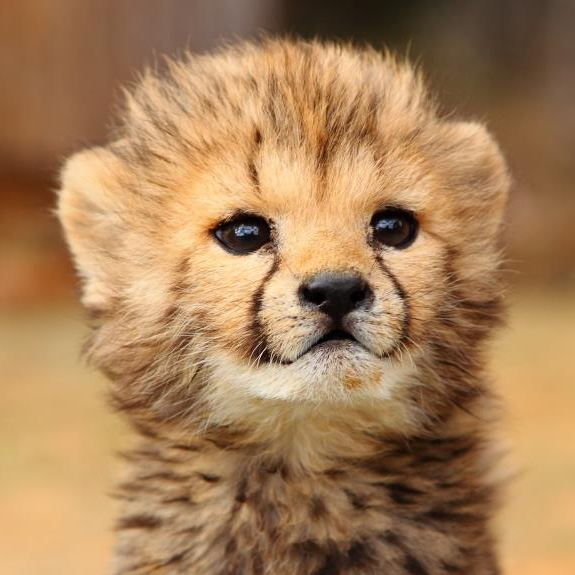
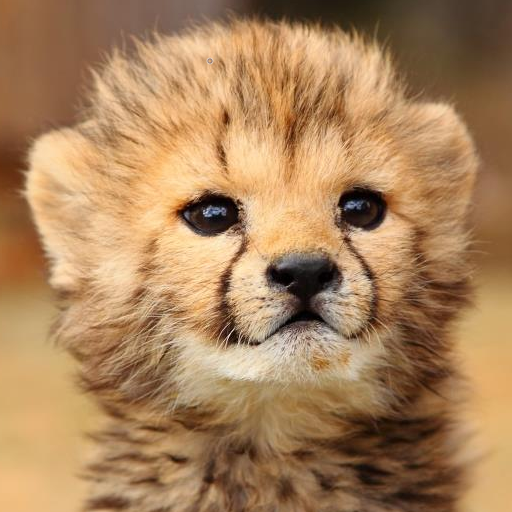
push results

diff --git a/HaarTransform2D.m b/HaarTransform2D.m
@@ -1,20 +1,40 @@
-image = imread('cat.png');
+image = imread('cheetah.png');
 grayimage = rgb2gray(image);
 imshow(grayimage)
+title('threshold = 0')
 [a,h,v,d] = haart2(grayimage);
 
 %% Test Different Threshold
-[threshold, data_sort] = FindThreshold2D(a,h,v,d,0.1);
+[threshold, data_sort] = FindThreshold2D(a,h,v,d,0.8);
 [rec5,a_rec5,h_rec5,v_rec5,d_rec5] = reconstruction2D(a,h,v,d,threshold);
-ratio = Compare(a,h,v,d, a_rec5,h_rec5,v_rec5,d_rec5)
+ratio5 = Compare(a,h,v,d, a_rec5,h_rec5,v_rec5,d_rec5);
 figure
 imshow(uint8(rec5))
-title('threshold = 5')
+title('threshold = 80')
+[threshold, data_sort] = FindThreshold2D(a,h,v,d,0.5);
+[rec9,a_rec9,h_rec9,v_rec9,d_rec9] = reconstruction2D(a,h,v,d,threshold);
+ratio9 = Compare(a,h,v,d, a_rec9,h_rec9,v_rec9,d_rec9);
+figure
+imshow(uint8(rec9))
+title('threshold = 50')
 % threshold = FindThreshold2D(a,h,v,d,0.9)
 % rec70 = reconstruction2D(a,h,v,d,threshold);
 % figure
 % imshow(rec70)
 % title('threshold = 70')
+
+%% Compute PSNR
+ratio = (0.01:0.005:0.9999)';
+[psnr,mse] = ComputePSNRs2D(double(grayimage),a,h,v,d,ratio);
+figure
+plot(ratio,psnr,'x')
+xlabel('compression ratio')
+ylabel('PSNR')
+figure
+plot(ratio,mse,'x')
+xlabel('compression ratio')
+ylabel('MSE')
+
 
 function [rec,a,h,v,d] = reconstruction2D(a,h,v,d,threshold)
     count = 0;
@@ -71,14 +91,16 @@ function [threshold,data_sort] = FindThreshold2D(a,h,v,d,ratio)
     start_index = sum(data_sort==0);
     threshold = data_sort(start_index + ceil(ratio*(length(data_sort)-start_index)));
 end
-function PSNRs = ComputePSNRs2D(data,a,h,v,d,ratio)
-    PSNRs = [];
+function [PSNRs,MSEs] = ComputePSNRs2D(data,a,h,v,d,ratio)
+    PSNRs = zeros(length(ratio),1);
+    MSEs = zeros(length(ratio),1);
     for i = 1:length(ratio)
-       threshold, data_sort = FindThreshold2D(a,h,v,d,ratio(i));
+       [threshold, data_sort] = FindThreshold2D(a,h,v,d,ratio(i));
        rec = reconstruction2D(a,h,v,d,threshold);
        MSE = sum(sum((rec - data).^2))./(size(data,1)*size(data,2));
        PSNR = 10*log10(1./MSE);
-       PSNRs = [PSNRs, PSNR];
+       MSEs(i) = MSE;
+       PSNRs(i) = PSNR;
     end
 end
 function ratio = Compare(a,h,v,d, a_rec,h_rec,v_rec,d_rec)
